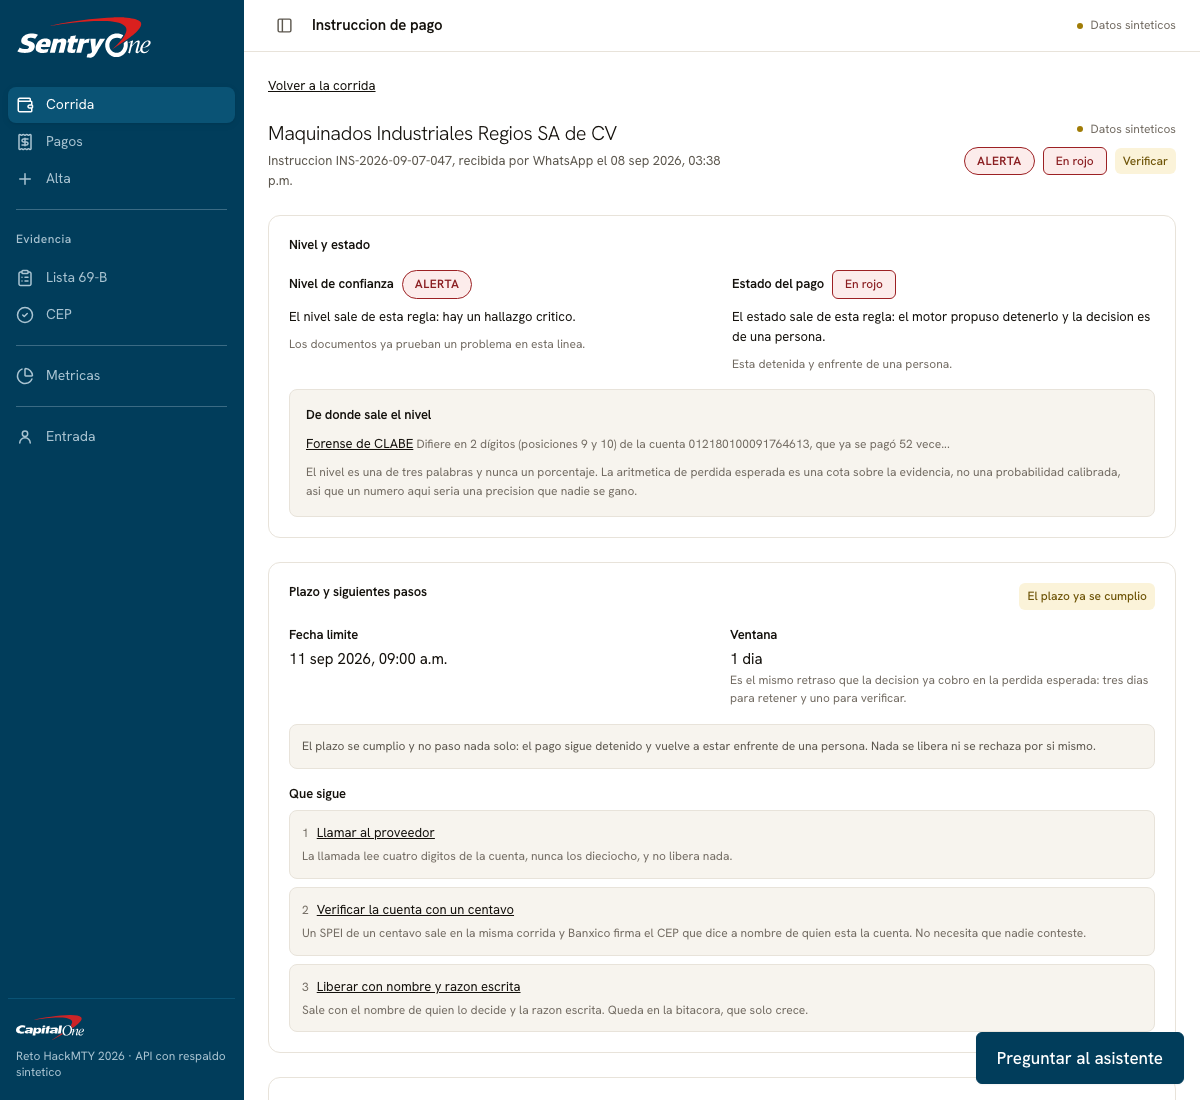
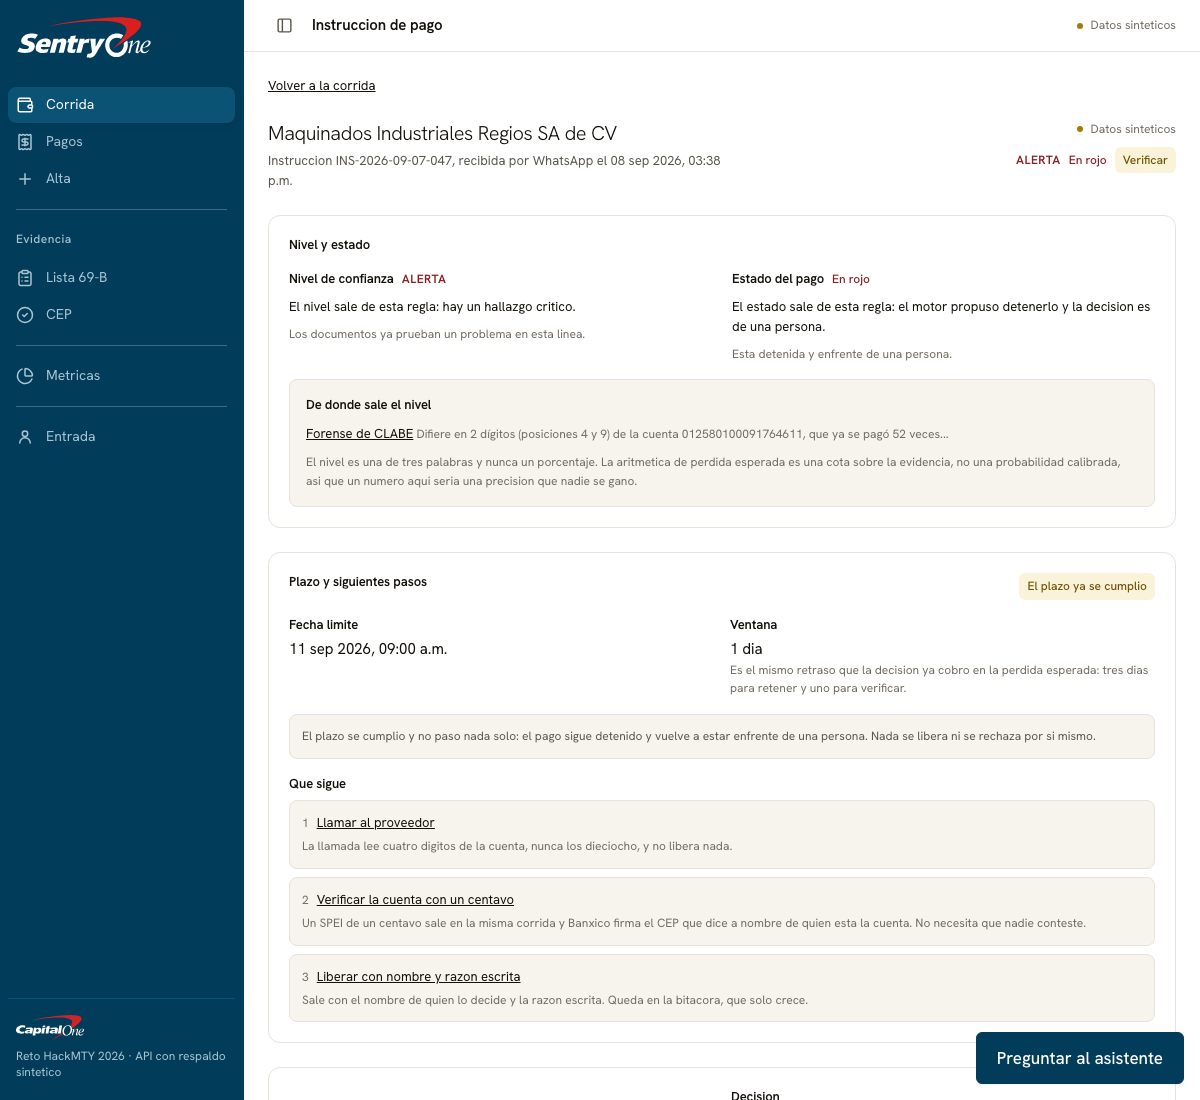
feat(web): the level and the state are words, not chips (#216)
Both were pills: a rounded container with a tinted fill, a border, and a glyph
inside, a three step meter on the level and a dot on the state. On a run of
ninety-two lines that is ninety-two filled capsules in two columns, competing
with the amounts a clerk is scanning. They are the word in its colour now,
everywhere both appear, because every screen renders them through
ConfidenceBadge and TransactionStateBadge.

It costs no channel, which is the thing worth checking before doing it. The
channel was never the container: confiable, precaucion and alerta are three
different words, and pendiente says in a language what its dashed border said in
a shape. Colour is the second channel and it stays.

Contrast measured over all sixteen combinations before the change: the ink tokens
sat on the fill that no longer renders at 6.45 to 10.55, and sit on the surfaces
they now use at 7.16 to 12.71. Every one improved. audit:web now measures the
pairs that render rather than ink-on-soft pairs that passed green while
describing nothing on screen.

CONFIDENCE_BARS and its two tests go with the meter they fed. The screenshots and
the tour are regenerated, since fifteen of them were of the pills.

diff --git a/apps/web/src/design/primitives.css b/apps/web/src/design/primitives.css
@@ -528,25 +528,23 @@
     background-color: var(--c-ink-subtle);
   }
 
-  /* ------------------------------------------------------------ level chip */
+  /* ----------------------------------------------------------- level word */
 
   /*
    * The level of one payment: `confiable`, `precaucion`, `alerta`. ADR-0009.
    *
-   * Two channels, never one. The word is real text, and beside it a three step
-   * meter fills one, two or three bars. That is not a score and it must never
-   * become one: it carries exactly the information the word carries, which is
-   * an ordinal over three values, and it exists because roughly one man in
-   * twelve cannot separate the red from the amber reliably. A number or a
-   * percentage in this chip is forbidden by ADR-0009.
+   * The word in its colour, with no container and no glyph. It was a pill with a
+   * three step meter inside it, and both went for the same reason: on a run of
+   * ninety-two lines a filled capsule on every row competes with the amounts,
+   * which are what a clerk is scanning.
+   *
+   * That costs no channel. The channel was never the pill: `confiable`,
+   * `precaucion` and `alerta` are three different words, so a reader who cannot
+   * separate the red from the amber, which is roughly one man in twelve, reads
+   * this exactly as well as anyone else. Colour is the second channel and it
+   * stays. A number or a percentage here is still forbidden by ADR-0009.
    */
   .level {
-    display: inline-flex;
-    align-items: center;
-    gap: var(--space-2);
-    padding: var(--space-1) var(--space-3);
-    border: var(--border-width) solid transparent;
-    border-radius: var(--radius-pill);
     font-size: var(--text-xs);
     font-weight: var(--weight-semibold);
     letter-spacing: var(--tracking-wide);
@@ -554,113 +552,57 @@
     white-space: nowrap;
   }
 
-  .level-meter {
-    display: inline-flex;
-    align-items: flex-end;
-    gap: 2px;
-    flex: none;
-  }
-
-  .level-bar {
-    width: 3px;
-    border-radius: 1px;
-    background-color: currentcolor;
-    opacity: 0.28;
-  }
-
-  .level-bar[data-on="true"] {
-    opacity: 1;
-  }
-
-  /* Rising bars, so the meter reads as a ramp and not as three equal ticks
-     even in a grayscale screenshot. */
-  .level-bar:nth-child(1) {
-    height: 0.375rem;
-  }
-
-  .level-bar:nth-child(2) {
-    height: 0.5625rem;
-  }
-
-  .level-bar:nth-child(3) {
-    height: 0.75rem;
-  }
-
   .level-confiable {
-    background-color: var(--c-level-confiable-soft);
-    border-color: var(--c-level-confiable);
     color: var(--c-level-confiable-ink);
   }
 
   .level-precaucion {
-    background-color: var(--c-level-precaucion-soft);
-    border-color: var(--c-level-precaucion);
     color: var(--c-level-precaucion-ink);
   }
 
   .level-alerta {
-    background-color: var(--c-level-alerta-soft);
-    border-color: var(--c-level-alerta);
     color: var(--c-level-alerta-ink);
   }
 
-  /* ------------------------------------------------------------ state chip */
+  /* ----------------------------------------------------------- state word */
 
   /*
    * Where the money stands: `rojo`, `cancelado`, `enviado` on screen, plus the
    * two the run counts internally. ADR-0009.
    *
-   * The second channel here is the border, not a glyph: `pendiente` is dashed
-   * because nothing has decided that line yet, and the other four are solid.
-   * The state is a fact, so the chip is quieter than the level chip: sentence
-   * case, no uppercase tracking, no meter.
+   * The word in its colour, like the level beside it and for the same reason.
+   * The state stays the quieter of the two: sentence case rather than the
+   * level's uppercase tracking, because a level is a judgement the run made and
+   * a state is a fact about the money, and the typography should not give the
+   * fact more voice than the judgement.
+   *
+   * `pendiente` used to carry a dashed border, which was the honest second mark
+   * for a line nobody has decided yet. The word says the same thing and says it
+   * in a language, which the border did not.
    */
   .state {
-    display: inline-flex;
-    align-items: center;
-    gap: var(--space-2);
-    padding: var(--space-1) var(--space-3);
-    border: var(--border-width) solid transparent;
-    border-radius: var(--radius-sm);
     font-size: var(--text-xs);
     font-weight: var(--weight-medium);
     white-space: nowrap;
   }
 
-  .state .status-dot {
-    width: 0.5rem;
-    height: 0.5rem;
-    background-color: currentcolor;
-  }
-
   .state-rojo {
-    background-color: var(--c-state-rojo-soft);
-    border-color: var(--c-state-rojo);
     color: var(--c-state-rojo-ink);
   }
 
   .state-cancelado {
-    background-color: var(--c-state-cancelado-soft);
-    border-color: var(--c-state-cancelado);
     color: var(--c-state-cancelado-ink);
   }
 
   .state-enviado {
-    background-color: var(--c-state-enviado-soft);
-    border-color: var(--c-state-enviado);
     color: var(--c-state-enviado-ink);
   }
 
   .state-liberado {
-    background-color: var(--c-state-liberado-soft);
-    border-color: var(--c-state-liberado);
     color: var(--c-state-liberado-ink);
   }
 
   .state-pendiente {
-    background-color: var(--c-state-pendiente-soft);
-    border-color: var(--c-state-pendiente);
-    border-style: dashed;
     color: var(--c-state-pendiente-ink);
   }
 

diff --git a/apps/web/audit/audit.ts b/apps/web/audit/audit.ts
@@ -458,55 +458,33 @@ const CONTRAST_PROBE = `(() => {
     ["--c-rail-active-ink", "--c-rail-active", 4.5, "the current rail item"],
     ["--c-rail-ink", "--c-rail-active", 4.5, "a rail item on hover"],
     ["--c-rail-ink-muted", "--c-rail-active", 4.5, "muted ink on the active row"],
-    // The level chip of ADR-0009, which aliases the decision triplets. Measured
-    // anyway: an alias that is repointed at a new colour has to be caught here
-    // and not on the projector.
-    ["--c-level-alerta-ink", "--c-level-alerta-soft", 4.5, "alerta chip"],
-    [
-      "--c-level-precaucion-ink",
-      "--c-level-precaucion-soft",
-      4.5,
-      "precaucion chip",
-    ],
-    [
-      "--c-level-confiable-ink",
-      "--c-level-confiable-soft",
-      4.5,
-      "confiable chip",
-    ],
-    ["--c-level-alerta", "--c-level-alerta-soft", 3, "alerta chip border"],
-    [
-      "--c-level-precaucion",
-      "--c-level-precaucion-soft",
-      3,
-      "precaucion chip border",
-    ],
-    [
-      "--c-level-confiable",
-      "--c-level-confiable-soft",
-      3,
-      "confiable chip border",
-    ],
-    // The state chip. The cancelado and pendiente pairings are the two new ones
-    // in the palette: muted ink on a sunken panel and on a plain surface.
-    ["--c-state-rojo-ink", "--c-state-rojo-soft", 4.5, "rojo chip"],
-    ["--c-state-cancelado-ink", "--c-state-cancelado-soft", 4.5, "cancelado chip"],
-    ["--c-state-enviado-ink", "--c-state-enviado-soft", 4.5, "enviado chip"],
-    ["--c-state-liberado-ink", "--c-state-liberado-soft", 4.5, "liberado chip"],
-    ["--c-state-pendiente-ink", "--c-state-pendiente-soft", 4.5, "pendiente chip"],
-    [
-      "--c-state-cancelado",
-      "--c-state-cancelado-soft",
-      3,
-      "cancelado chip border",
-    ],
-    [
-      "--c-state-pendiente",
-      "--c-state-pendiente-soft",
-      3,
-      "pendiente dashed border",
-    ],
-    ["--c-state-enviado", "--c-state-enviado-soft", 3, "enviado chip border"],
+    // The level and the state of ADR-0009. They are words on a page now rather
+    // than chips, so the ground is the ground they sit on and not a soft fill
+    // that no longer renders: the run table is on the surface token and a detail
+    // panel puts the same words on the canvas. Both are measured, because a pair
+    // that passes on one and fails on the other is a word that disappears on
+    // exactly one screen. The level aliases the decision triplets, and an alias
+    // repointed at a new colour has to be caught here and not on the projector.
+    //
+    // No backticks in this block, and that is not a style choice: every line
+    // from CONTRAST_PROBE down is inside a template literal, so one would end
+    // the string and take the rest of the file with it.
+    ["--c-level-alerta-ink", "--c-surface", 4.5, "alerta on a panel"],
+    ["--c-level-alerta-ink", "--c-canvas", 4.5, "alerta on the page"],
+    ["--c-level-precaucion-ink", "--c-surface", 4.5, "precaucion on a panel"],
+    ["--c-level-precaucion-ink", "--c-canvas", 4.5, "precaucion on the page"],
+    ["--c-level-confiable-ink", "--c-surface", 4.5, "confiable on a panel"],
+    ["--c-level-confiable-ink", "--c-canvas", 4.5, "confiable on the page"],
+    ["--c-state-rojo-ink", "--c-surface", 4.5, "rojo on a panel"],
+    ["--c-state-rojo-ink", "--c-canvas", 4.5, "rojo on the page"],
+    ["--c-state-cancelado-ink", "--c-surface", 4.5, "cancelado on a panel"],
+    ["--c-state-cancelado-ink", "--c-canvas", 4.5, "cancelado on the page"],
+    ["--c-state-enviado-ink", "--c-surface", 4.5, "enviado on a panel"],
+    ["--c-state-enviado-ink", "--c-canvas", 4.5, "enviado on the page"],
+    ["--c-state-liberado-ink", "--c-surface", 4.5, "liberado on a panel"],
+    ["--c-state-liberado-ink", "--c-canvas", 4.5, "liberado on the page"],
+    ["--c-state-pendiente-ink", "--c-surface", 4.5, "pendiente on a panel"],
+    ["--c-state-pendiente-ink", "--c-canvas", 4.5, "pendiente on the page"],
     // The focus ring, which is the same colour as the accent and has to clear
     // 3:1 against every ground a control sits on.
     ["--c-focus", "--c-surface", 3, "the focus ring on a panel"],

diff --git a/apps/web/src/components/Primitives.tsx b/apps/web/src/components/Primitives.tsx
@@ -17,7 +17,6 @@ import {
   ACTION_BADGE,
   ACTION_LABEL,
   CONFIDENCE_BADGE,
-  CONFIDENCE_BARS,
   CONFIDENCE_HELP,
   CONFIDENCE_LABEL,
   PAYMENT_LINE_BADGE,
@@ -30,9 +29,6 @@ import {
   STATE_LABEL,
   SYNTHETIC_LABEL,
 } from "../lib/labels";
-
-/** The three steps of the level meter, so the JSX has nothing to count. */
-const LEVEL_BARS = [1, 2, 3] as const;
 
 type AmountSize = "inherit" | "sm" | "base" | "lg" | "xl";
 
@@ -121,11 +117,14 @@ export function SeverityBadge({ severity }: { severity: Severity }) {
  * The level of one payment: `confiable`, `precaucion` or `alerta`, and never a
  * percentage, a score or the word "seguro".
  *
- * Two channels, never one. The word is real text, and beside it a three step
- * meter fills one bar, two or three. The meter is not a score and must never
- * become one: it carries exactly the information the word carries, an ordinal
- * over three values, and it exists because red against amber is the pair roughly
- * one man in twelve cannot separate reliably.
+ * The word, in its colour, and nothing else. It used to be a pill with a three
+ * step meter in it, and both are gone: a table of ninety-two lines with a filled
+ * capsule on every row reads as decoration competing with the amounts, which are
+ * the numbers a clerk is actually scanning. Removing the container does not cost
+ * a channel, because the channel was never the pill. `CONFIABLE`, `PRECAUCION`
+ * and `ALERTA` are three different words, and a reader who cannot separate red
+ * from amber reads them exactly as well as anyone else. The colour is the second
+ * channel and it stays.
  *
  * It is a primitive for the reason `confidenceOf` is one function in
  * `packages/core`: the same three words appear on the run, on the detail, in the
@@ -135,21 +134,8 @@ export function SeverityBadge({ severity }: { severity: Severity }) {
  * the caller's job and is why this component takes no evidence of its own.
  */
 export function ConfidenceBadge({ level }: { level: Confidence }) {
-  const filled = CONFIDENCE_BARS[level];
-
   return (
     <span className={CONFIDENCE_BADGE[level]} title={CONFIDENCE_HELP[level]}>
-      {/* The meter repeats the word, so it is hidden from a screen reader
-          rather than read out as three empty spans. */}
-      <span aria-hidden="true" className="level-meter">
-        {LEVEL_BARS.map((bar) => (
-          <span
-            key={bar}
-            className="level-bar"
-            data-on={bar <= filled ? "true" : "false"}
-          />
-        ))}
-      </span>
       {CONFIDENCE_LABEL[level]}
     </span>
   );
@@ -162,7 +148,6 @@ export function ConfidenceBadge({ level }: { level: Confidence }) {
 export function TransactionStateBadge({ state }: { state: TransactionState }) {
   return (
     <span className={STATE_BADGE[state]} title={STATE_HELP[state]}>
-      <span aria-hidden="true" className="status-dot" />
       {STATE_LABEL[state]}
     </span>
   );

diff --git a/apps/web/src/lib/labels.test.ts b/apps/web/src/lib/labels.test.ts
@@ -197,29 +197,16 @@ describe("ADR-0009 vocabulary", () => {
     "liberado",
   ];
 
-  test("every level has a word, a sentence and a bar count", () => {
+  test("every level has a word and a sentence", () => {
     expect(labels.CONFIDENCE_ORDER.toSorted()).toEqual(levels.toSorted());
 
     for (const level of levels) {
       expect(labels.CONFIDENCE_LABEL[level].length).toBeGreaterThan(0);
       /* A level with no explanation is a colour. The sentence is what a clerk
-         reads when they ask why a line is where it is. */
+         reads when they ask why a line is where it is, and it is the whole of
+         the second channel now that the meter beside the word is gone. */
       expect(labels.CONFIDENCE_HELP[level].length).toBeGreaterThan(20);
-      expect(labels.CONFIDENCE_BARS[level]).toBeGreaterThanOrEqual(1);
-      expect(labels.CONFIDENCE_BARS[level]).toBeLessThanOrEqual(3);
     }
-  });
-
-  test("the meter rises with the level, so it reads as a ramp", () => {
-    /* `alerta` fills three bars and `confiable` one. Inverting this would make
-       the chip say the opposite of the word beside it to anyone who reads the
-       shape before the text, which is everybody at two metres. */
-    expect(labels.CONFIDENCE_BARS.alerta).toBeGreaterThan(
-      labels.CONFIDENCE_BARS.precaucion,
-    );
-    expect(labels.CONFIDENCE_BARS.precaucion).toBeGreaterThan(
-      labels.CONFIDENCE_BARS.confiable,
-    );
   });
 
   test("every state has a word and a sentence", () => {

diff --git a/apps/web/src/lib/labels.ts b/apps/web/src/lib/labels.ts
@@ -391,20 +391,6 @@ export const CONFIDENCE_BADGE: Record<Confidence, string> = {
   alerta: "level level-alerta",
 };
 
-/**
- * How many of the three bars the meter fills beside the word.
- *
- * An ordinal over the same three values the word already carries, which is why
- * it is allowed: it adds a channel and not a digit, and red against amber is the
- * pair roughly one man in twelve cannot separate. It is not a score and must
- * never become one. See the note on `.level` in `design/primitives.css`.
- */
-export const CONFIDENCE_BARS: Record<Confidence, number> = {
-  alerta: 3,
-  precaucion: 2,
-  confiable: 1,
-};
-
 export const CONFIDENCE_HELP: Record<Confidence, string> = {
   confiable:
     "Los documentos que tenemos coinciden y no hay nada abierto en esta linea.",

diff --git a/CHANGELOG.md b/CHANGELOG.md
@@ -1344,6 +1344,30 @@ then the screens, then the narrative, then the plumbing.
 
 ### Changed
 
+- **The level and the state are words now, not chips** (issue #216). Both were pills: a rounded
+  container with a tinted fill, a border, and a glyph inside it, a three step meter on the level and a
+  dot on the state. On a run of ninety-two lines that is ninety-two filled capsules in two columns,
+  competing for attention with the amounts, which are the numbers a clerk is actually scanning. They
+  are the word in its colour now, everywhere both appear, because both render through
+  `ConfidenceBadge` and `TransactionStateBadge` and neither screen paints its own.
+
+  It costs no channel, which was the thing worth checking before doing it. The channel was never the
+  container: `confiable`, `precaucion` and `alerta` are three different words, and `pendiente` says in
+  a language what its dashed border used to say in a shape, so a reader who cannot separate the red
+  from the amber, which is roughly one man in twelve, reads these exactly as well as anyone else.
+  Colour is the second channel and it stays.
+
+  Contrast was measured before the change rather than after, over all sixteen combinations: the ink
+  tokens sit on the fill no longer rendered at between 6.45 and 10.55, and on the surfaces they now
+  sit on at between 7.16 and 12.71. Every one improved, because a tinted fill was always closer to the
+  ink than the page is. `bun run audit:web` measures the pairs that render now, ink on `--c-surface`
+  for the run table and ink on `--c-canvas` for a detail panel, rather than the ink-on-soft pairs that
+  passed green while describing nothing on screen.
+
+  `CONFIDENCE_BARS` and the two tests over it are gone with the meter they fed.
+
+### Changed
+
 - **The payments line sounds natural, says what it is, and hangs up** (issue #250, closing #247 with
   it). The verification call worked and it did not sound like anybody you would stay on the phone with:
   nine and five second silences after every answer, the same two word either-or at the end of the
